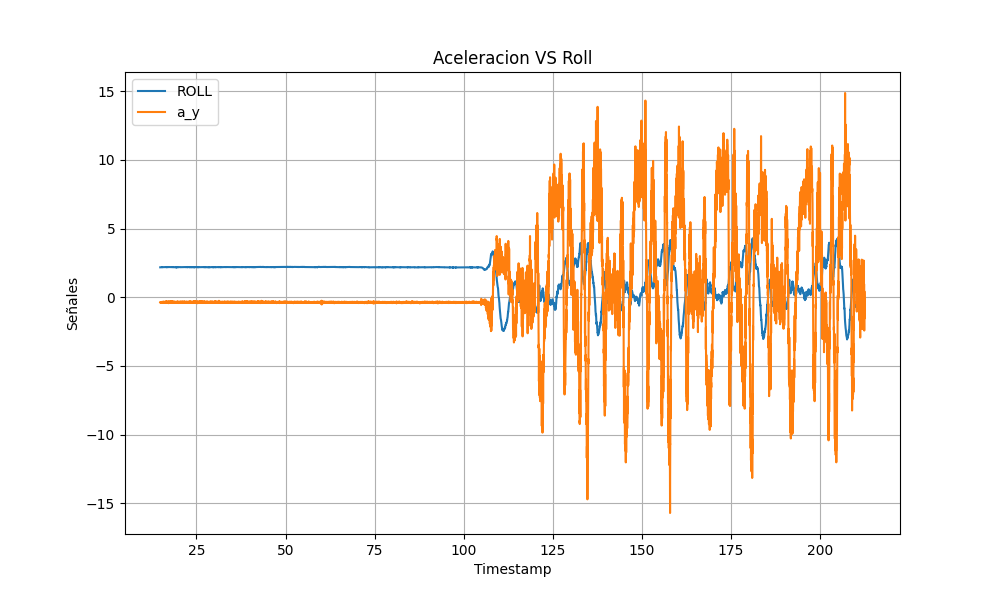
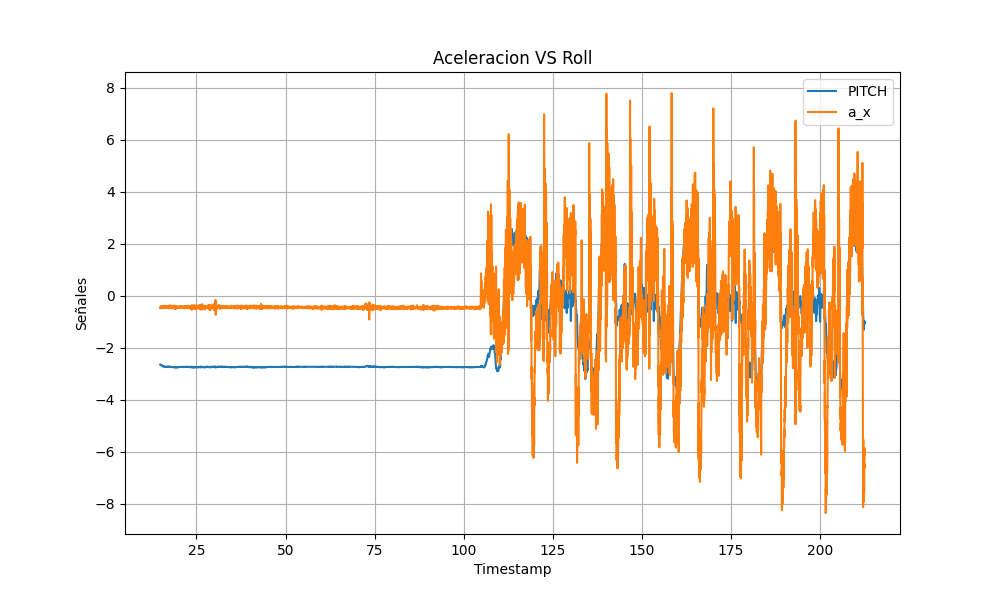
graficos_añadidos

diff --git a/DECODER_SUSPEN.py b/DECODER_SUSPEN.py
@@ -54,7 +54,7 @@ class Signal:
         savemat(mat_file, mat_data)
         print(f"Data saved to {mat_file} in MATLAB format.")
     
-    def _write_to_excel_line_by_line(self, df: pd.DataFrame, excel_final: str, plot_path_aceleracionVSroll: str = None):
+    def _write_to_excel_line_by_line(self, df: pd.DataFrame, excel_final: str, plot_path_aceleracion_lateralVSroll: str = None,plot_path_aceleracion_longitudinalVSpitch: str = None):
         """Escribir línea por línea en Excel usando xlsxwriter e insertar gráfico en una segunda hoja."""
         df_clean = df.fillna('').replace([np.inf, -np.inf], '')  # Reemplazar NaN e inf por cadena vacía
         workbook = xlsxwriter.Workbook(excel_final)
@@ -68,9 +68,13 @@ class Signal:
             worksheet.write_row(row_num, 0, row)
         
         # Insertar la gráfica en la segunda hoja si se proporcionó el gráfico
-        if plot_path_aceleracionVSroll:
-            worksheet_plot = workbook.add_worksheet("AceleracionVSroll")
-            worksheet_plot.insert_image('B2', plot_path_aceleracionVSroll)  # Insertar la imagen en la celda B2 de la segunda hoja
+        if plot_path_aceleracion_lateralVSroll:
+            worksheet_plot = workbook.add_worksheet("AceleracionlateralVSRoll")
+            worksheet_plot.insert_image('B2', plot_path_aceleracion_lateralVSroll)  # Insertar la grafico aceleracion_lateralVSroll en la celda B2 de la segunda hoja
+
+        if plot_path_aceleracion_longitudinalVSpitch:
+            worksheet_plot = workbook.add_worksheet("AceleracionlongitudinalVSPitch")
+            worksheet_plot.insert_image('B3', plot_path_aceleracion_longitudinalVSpitch)  # Insertar la grafico aceleracion_longitudinalVSpitch en la celda B3 de la segunda hoja
 
         workbook.close()
 
@@ -88,7 +92,7 @@ class Signal:
         print(f"Data saved to {ascii_file} in ASCII format.")
 
     
-    def plot_aceleracionVSroll(self, df: pd.DataFrame, signals: list, output_plot: str = None):
+    def plot_aceleracion_lateralVSroll(self, df: pd.DataFrame, signals: list, output_plot: str = None):
         """Generar un gráfico con los 'timestamps' en el eje X y una o más señales en el eje Y."""
         plt.figure(figsize=(10, 6))
         for signal in signals:
@@ -99,7 +103,7 @@ class Signal:
         
         plt.xlabel('Timestamp')
         plt.ylabel('Señales')
-        plt.title('Aceleracion VS Roll')
+        plt.title('Aceleracion lateral VS Roll')
         plt.legend()
         plt.grid(True)
         
@@ -111,7 +115,30 @@ class Signal:
         else:
             plt.show()
 
-    def decode_log(self, log_path: str, output_file: str, output_format: str, aceleracionVSroll=None):
+    def plot_aceleracion_longitudinalVSpitch(self, df: pd.DataFrame, signals: list, output_plot: str = None):
+        """Generar un gráfico con los 'timestamps' en el eje X y una o más señales en el eje Y."""
+        plt.figure(figsize=(10, 6))
+        for signal in signals:
+            if signal in df.columns:
+                plt.plot(df['Timestamp'], df[signal], label=signal)
+            else:
+                print(f"Warning: Signal '{signal}' not found in the data.")
+        
+        plt.xlabel('Timestamp')
+        plt.ylabel('Señales')
+        plt.title('Aceleracion longitudinal VS Pitch')
+        plt.legend()
+        plt.grid(True)
+        
+        # Guardar el gráfico si se proporciona un archivo de salida
+        if output_plot:
+            plt.savefig(output_plot)
+            plt.close()
+            print(f"Plot saved as {output_plot}")
+        else:
+            plt.show()
+
+    def decode_log(self, log_path: str, output_file: str, output_format: str, aceleracion_lateralVSroll=None,aceleracion_longitudinalVSpitch=None):
         """Decodificar el archivo de log usando el archivo DBC y generar los resultados"""
         pattern = r'\((?P<timestamp>\d+\.\d{6})\)\s+(?P<interface>\w+)\s+(?P<id>[0-9A-F]{3})\s*#\s*(?P<data>[0-9A-F]{2,16})'
         
@@ -178,15 +205,21 @@ class Signal:
         for signal in all_signals:
             df[signal] = df[signal].interpolate(method='linear', limit_direction='both')
         
-        # Graficar las señales si se proporcionaron
-        plot_file_aceleracionVSroll = None
-        if aceleracionVSroll:
-            plot_file_aceleracionVSroll = "aceleracionVSroll.png"
-            self.plot_aceleracionVSroll(df, aceleracionVSroll, plot_file_aceleracionVSroll)
+        # Graficar Aceleracion lateral VS Roll
+        plot_file_aceleracion_lateralVSroll = None
+        if aceleracion_lateralVSroll:
+            plot_file_aceleracion_lateralVSroll = "aceleracion_lateralVSroll.png"
+            self.plot_aceleracion_lateralVSroll(df, aceleracion_lateralVSroll, plot_file_aceleracion_lateralVSroll)
+        
+        # Graficar Aceleracion longitudinal VS Pitch
+        plot_file_aceleracion_longitudinalVSpitch = None
+        if aceleracion_longitudinalVSpitch:
+            plot_file_aceleracion_longitudinalVSpitch = "aceleracion_longitudinalVSpitch.png"
+            self.plot_aceleracion_longitudinalVSpitch(df, aceleracion_longitudinalVSpitch, plot_file_aceleracion_longitudinalVSpitch)
        
         # Guardar en el formato solicitado
         if output_format.lower() == 'xlsx':
-            self._write_to_excel_line_by_line(df, output_file, plot_file_aceleracionVSroll)
+            self._write_to_excel_line_by_line(df, output_file, plot_file_aceleracion_lateralVSroll,plot_file_aceleracion_longitudinalVSpitch)
         elif output_format.lower() == 'csv':
             self._write_to_csv(df, output_file)
         elif output_format == 'mat':
@@ -202,6 +235,6 @@ if __name__ == "__main__":
     try:
         decoder = Signal("./TER.dbc")
         # Decodificar y guardar los datos
-        decoder.decode_log("RUN4 copy.log", "prueba_suspen.xlsx", "xlsx", aceleracionVSroll=["ROLL","a_y"])  # Cambia Signal1, Signal2 por los nombres reales de las señales
+        decoder.decode_log("RUN4 copy.log", "prueba_suspen.xlsx", "xlsx", aceleracion_lateralVSroll=["ROLL","a_y"],aceleracion_longitudinalVSpitch=["PITCH","a_x"])  # Cambia Signal1, Signal2 por los nombres reales de las señales
     except Exception as e:
         print(f"Error during execution: {e}")
